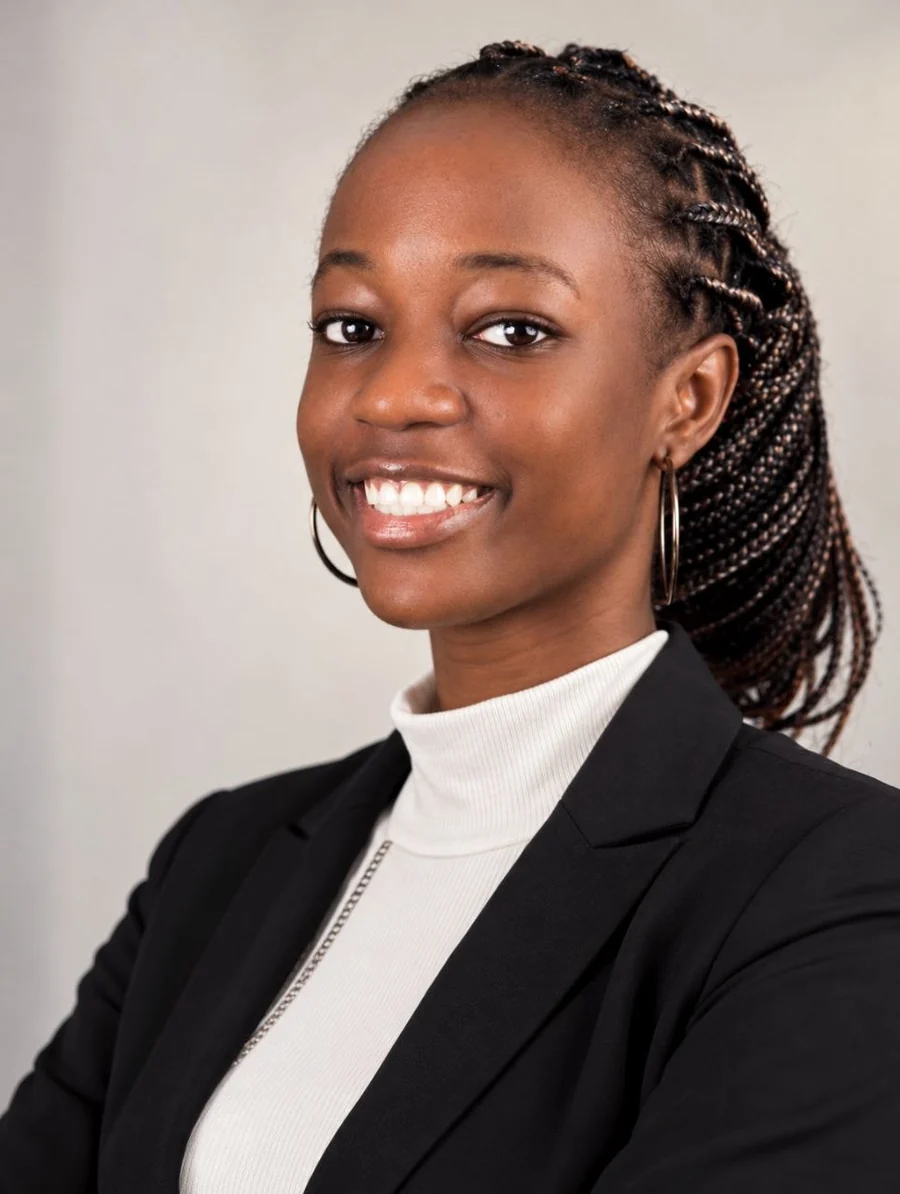
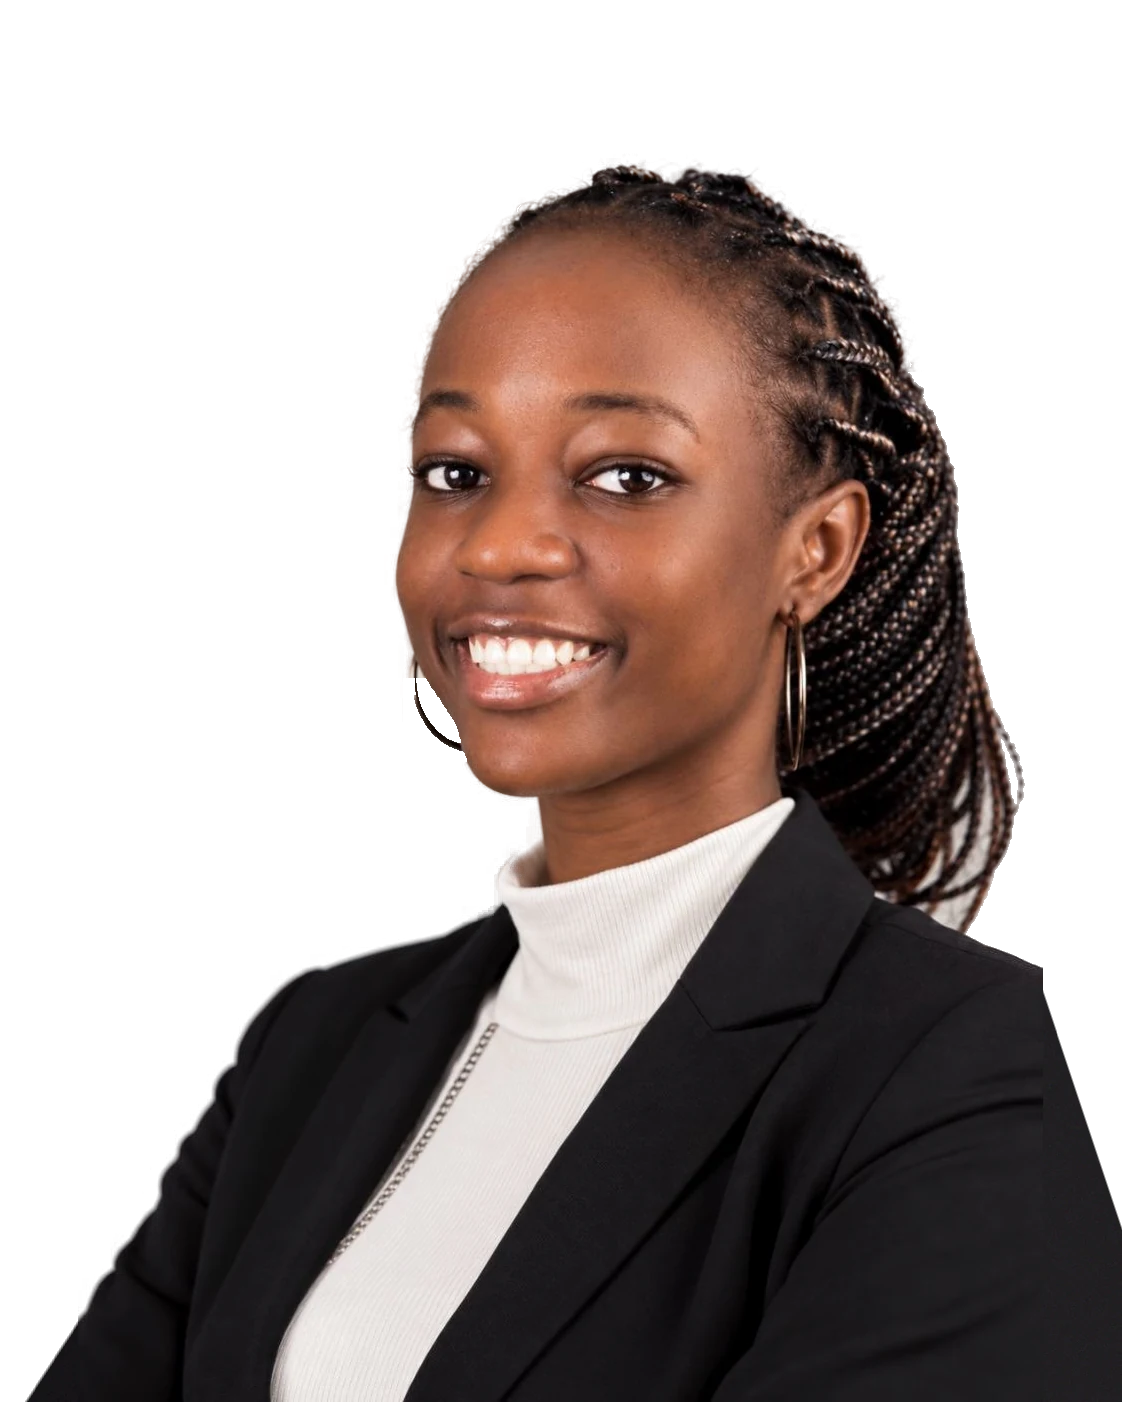
Rita's photo on a blue backdrop, framed like Isaac's
Cut out from the studio background and placed on the same 1122x1402
transparent canvas as Isaac's portrait, so both team cards use the same
blue panel and framing.

Claude-Session: https://claude.ai/code/session_01H8A5d6Xo7ANxW25gWJobGL

diff --git a/about.html b/about.html
@@ -67,7 +67,7 @@
           </div>
         </article>
         <article class="team-card reveal-card">
-          <img src="/assets/images/rita-omotegho-aghwana.webp" alt="Rita Omotegho Aghwana, Tender Specialist" width="900" height="1194" loading="lazy">
+          <img src="/assets/images/rita-omotegho-aghwana.webp" alt="Rita Omotegho Aghwana, Tender Specialist" width="1122" height="1402" loading="lazy">
           <div class="team-body">
             <h3>Rita Omotegho Aghwana</h3>
             <p class="team-role">Tender Specialist, UK Tenders</p>
